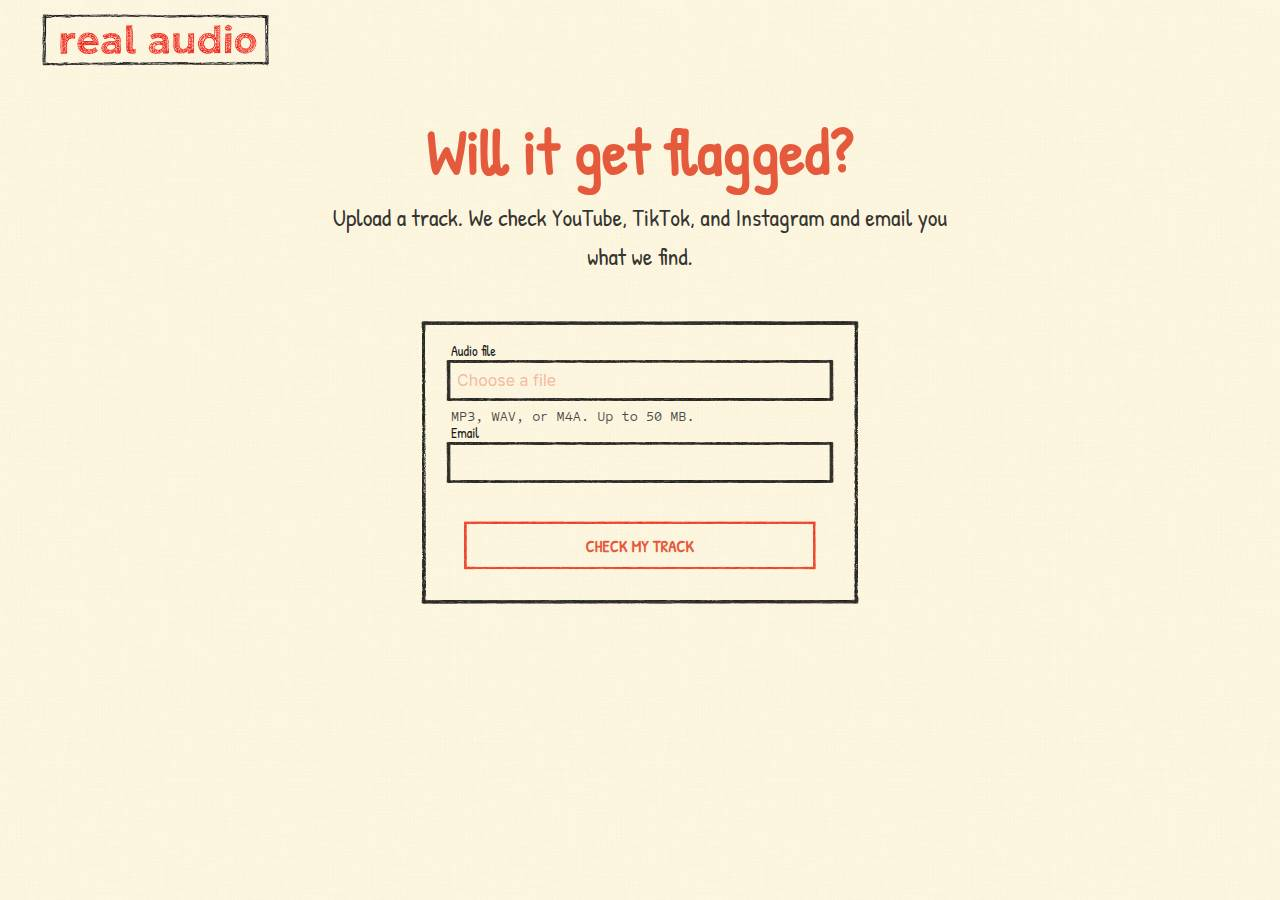
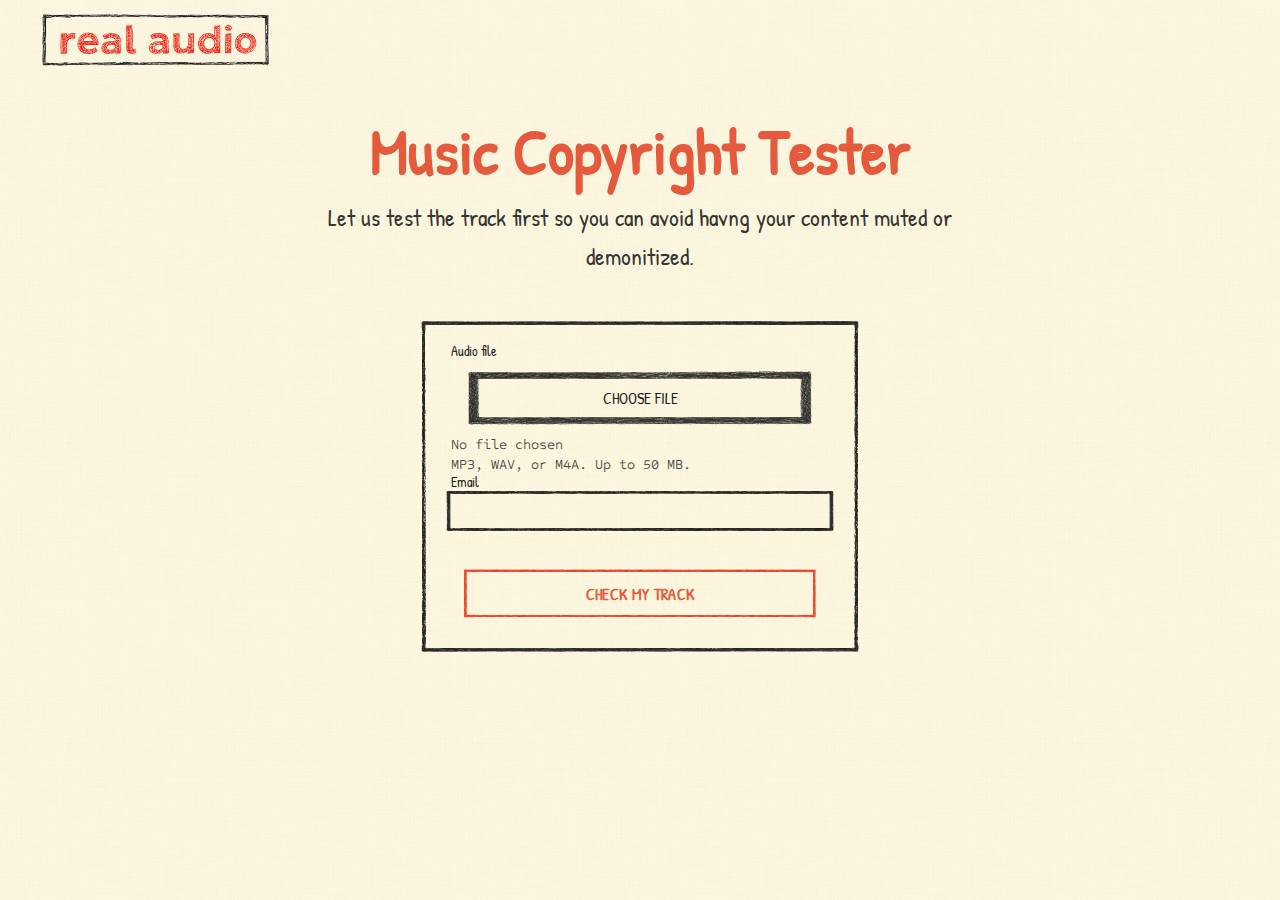
MS-002 reject fix: Spencer's copy + file selection as a button
- Headline "Music Copyright Tester"; lead copy applied verbatim from notes.
- File selection is the existing sketched .btn-default ("CHOOSE FILE"),
  aligned with the CTA, filename shown below; error state reuses the red
  button frame. No longer styled as a text input.
- E2E asserts the copy and the button treatment; screenshots refreshed.
  config + E2E 31/31 x2 key styles.

Claude-Session: https://claude.ai/code/session_016WeDHqeepJ6MGFxNhLbK6B

diff --git a/clearance-check/public/index.html b/clearance-check/public/index.html
@@ -25,8 +25,8 @@
     <main class="main">
       <div class="container">
         <div class="narrow">
-          <h1 class="text-h1 headline">Will it get flagged?</h1>
-          <p class="lead">Upload a track. We check YouTube, TikTok, and Instagram and email you what we find.</p>
+          <h1 class="text-h1 headline">Music Copyright Tester</h1>
+          <p class="lead">Let us test the track first so you can avoid havng your content muted or demonitized.</p>
 
           <form id="check-form" class="my-login-modal check-form" novalidate>
             <div class="field">
@@ -34,7 +34,8 @@
               <input class="file-input" type="file" id="file" name="file"
                      accept=".mp3,.wav,.m4a,audio/mpeg,audio/wav,audio/x-wav,audio/mp4,audio/x-m4a"
                      aria-labelledby="file-label" aria-describedby="file-hint file-error">
-              <label class="input-text file-pick" id="file-pick" for="file"><span class="file-name" id="file-name">Choose a file</span></label>
+              <label class="btn-default btn-block file-pick" id="file-pick" for="file">CHOOSE FILE</label>
+              <p class="file-name" id="file-name">No file chosen</p>
               <p class="text-caption text-mono field-hint" id="file-hint">MP3, WAV, or M4A. Up to 50 MB.</p>
               <p class="text-label field-error" id="file-error" role="alert"></p>
             </div>

diff --git a/clearance-check/public/styles.css b/clearance-check/public/styles.css
@@ -363,10 +363,13 @@ h1, h2, h3, p { margin: 0; }
 
 /* File picker: native input visually hidden; the brand input frame is the control. */
 .file-input { position: absolute; width: 1px; height: 1px; opacity: 0; overflow: hidden; clip: rect(0 0 0 0); }
-.file-pick { cursor: pointer; min-height: 40px; display: flex; align-items: center; }
+/* Undo the .field frame pull-out so the button lines up with the CTA below. */
+.file-pick { margin: 6px 0 0 9px; width: calc(100% - 38px); }
+/* Error: the red state .btn-default already uses on hover. */
+.file-pick.error { color: var(--color-red); border-image-source: url('/brand-assets/frames/frame-button-heavy-red.webp'); }
 .file-input:focus-visible + .file-pick { outline: 2px solid hsl(var(--brand-accent)); outline-offset: 3px; }
-.file-name { font-family: var(--font-body); font-size: 16px; word-break: break-all; }
-.file-pick:not(.has-file) .file-name { color: var(--color-placeholder); }
+.file-name { font-family: var(--font-mono); font-size: 14px; word-break: break-all; margin-top: 4px; }
+.file-pick:not(.has-file) + .file-name { color: rgba(26, 26, 26, 0.8); }
 
 .actions { display: flex; justify-content: center; padding-top: 8px; }
 

diff --git a/clearance-check/public/app.js b/clearance-check/public/app.js
@@ -21,7 +21,7 @@ function showEmailError(msg) {
 
 fileInput.addEventListener('change', () => {
   const file = fileInput.files[0];
-  fileName.textContent = file ? file.name : 'Choose a file';
+  fileName.textContent = file ? file.name : 'No file chosen';
   filePick.classList.toggle('has-file', Boolean(file));
   showFileError(file ? validateFile(file) : null);
 });
